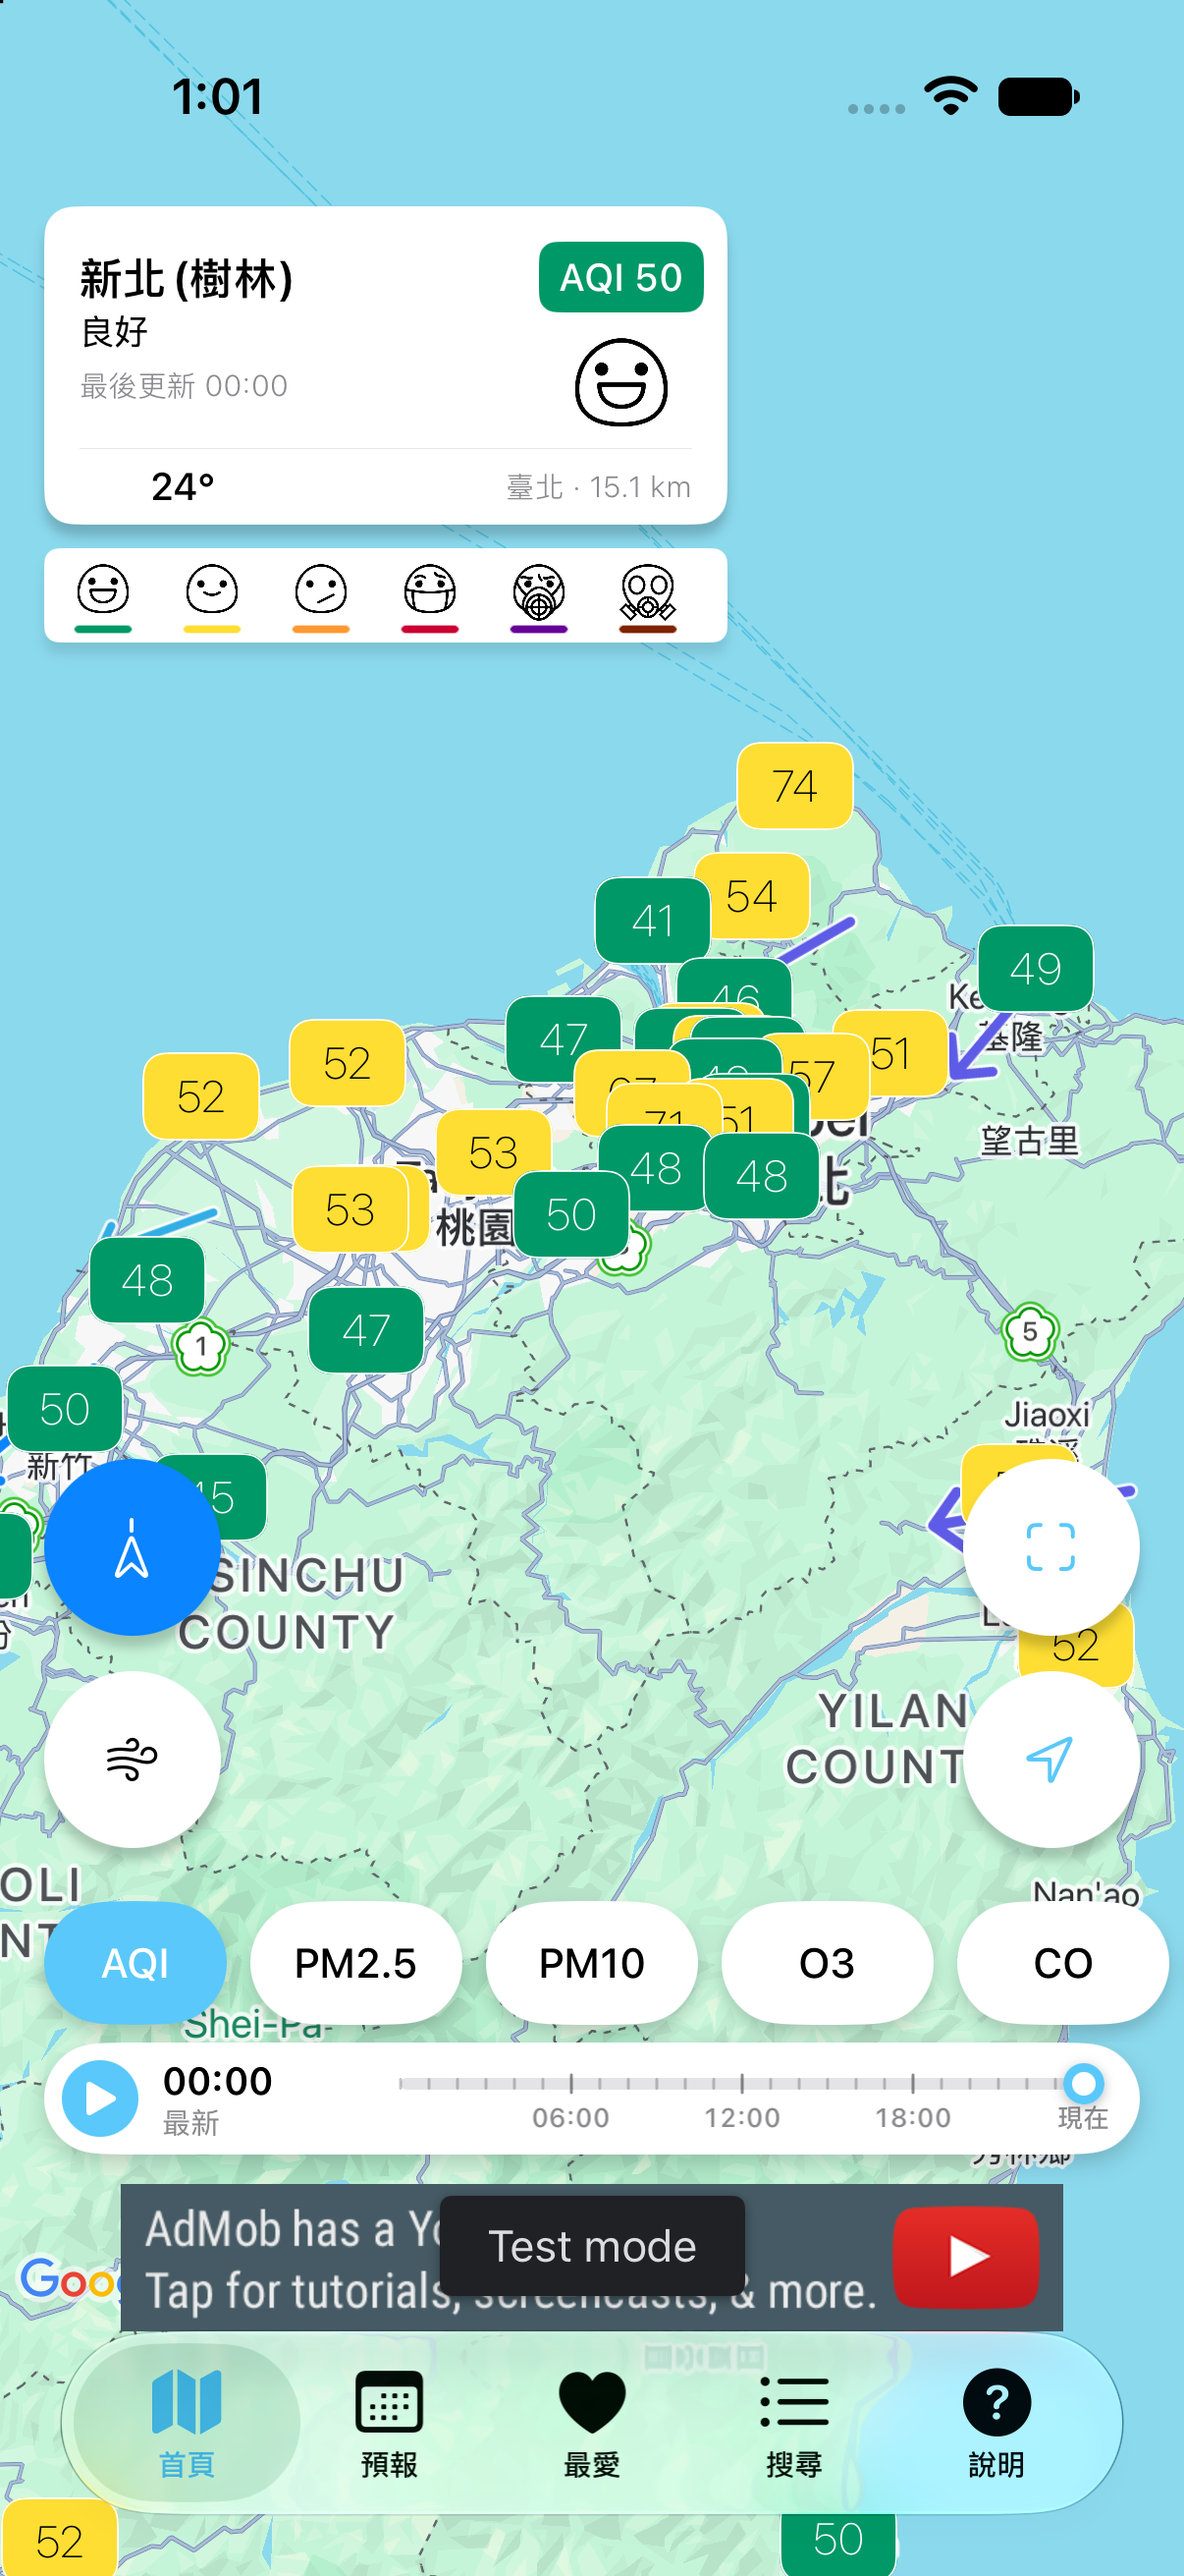
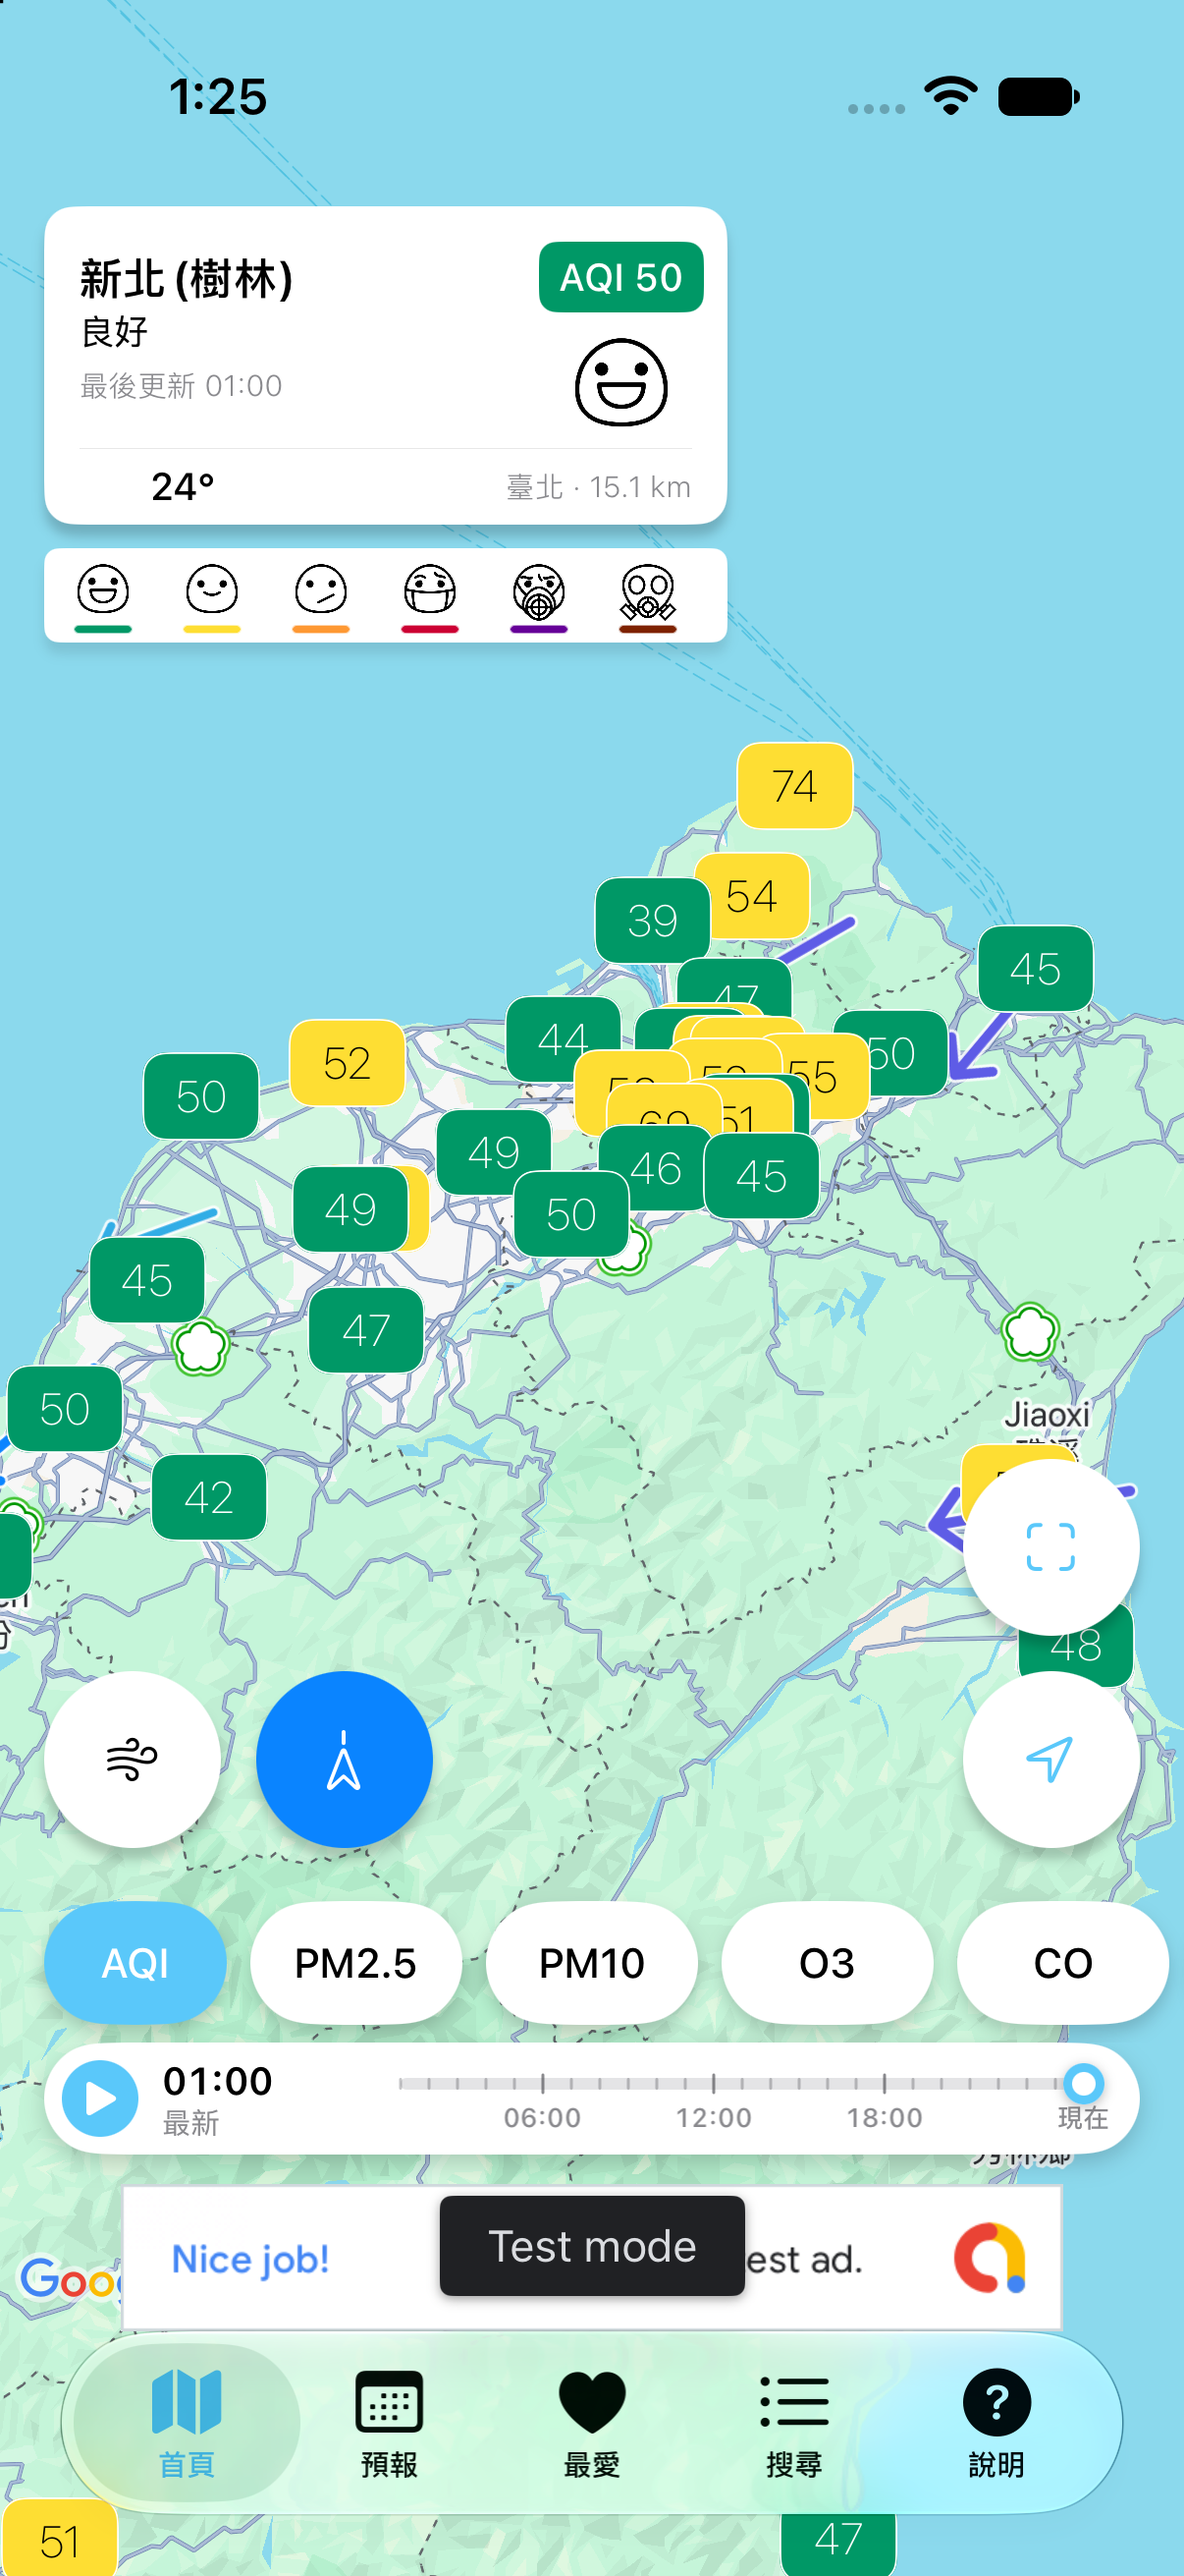
TWAQ-15: wind layer button beside wind mode, refresh hint and arrows with new readings

diff --git a/ios/TWAQI/Views/Main/GoogleMapController.swift b/ios/TWAQI/Views/Main/GoogleMapController.swift
@@ -369,6 +369,10 @@ class GoogleMapViewController: UIViewController, GMSMapViewDelegate {
             if timelineHoursAgo > 0 {
                 requestVisibleHistory()
             }
+            // New readings change the PM2.5 behind the hint; the weather
+            // store answers from its cache within its ttl.
+            scheduleCenterWeather()
+            refreshWindLayer()
         }
     }
 
@@ -684,8 +688,10 @@ class GoogleMapViewController: UIViewController, GMSMapViewDelegate {
         windLayerButton.button.addTarget(self, action: #selector(toggleWindLayer), for: .touchUpInside)
         view.addSubview(windLayerButton)
         windLayerButton.snp.makeConstraints { (make) -> Void in
-            make.bottom.equalTo(windModeButton.snp.top).offset(-12)
-            make.left.equalTo(view.safeAreaLayoutGuide.snp.left).offset(15)
+            // Same row as the wind-mode button, so the left stack stays one
+            // button tall and clears the station card in landscape.
+            make.bottom.equalTo(windModeButton)
+            make.left.equalTo(windModeButton.snp.right).offset(12)
             make.width.equalTo(60)
             make.height.equalTo(60)
         }

diff --git a/workers/twaqi-workers/src/weather.ts b/workers/twaqi-workers/src/weather.ts
@@ -337,7 +337,7 @@ export function parseObservations(body: unknown): Observation[] {
     if (humidity !== null && humidity > 0 && humidity <= 1) humidity = Math.round(humidity * 100)
     const rain = rainfall(get(get(element, 'Now', 'now'), 'Precipitation', 'precipitation'))
     const wind = valid(num(get(element, 'WindSpeed', 'windSpeed')), (n) => n >= 0 && n < 100)
-    // 0 is calm and 360 is north; CWA's markers (-99, -990) and anything past 360 are null.
+    // 0 and 360 are both north (calm is told by speed). CWA's -99, -990 and 990 (variable) fall outside 0..360 and become null.
     const windDir = valid(num(get(element, 'WindDirection', 'windDirection')), (n) => n >= 0 && n <= 360)
     if (temp === null && humidity === null && rain === null && wind === null) continue
 

diff --git a/ios/TWAQI/Views/Main/WindModeButton.swift b/ios/TWAQI/Views/Main/WindModeButton.swift
@@ -45,7 +45,7 @@ final class WindModeButton: UIView {
     }
 }
 
-/// Toggle for the wind arrows layer (TWAQ-15), above the wind-mode button.
+/// Toggle for the wind arrows layer (TWAQ-15), beside the wind-mode button.
 final class WindLayerButton: UIView {
     var button: UIButton!
 
